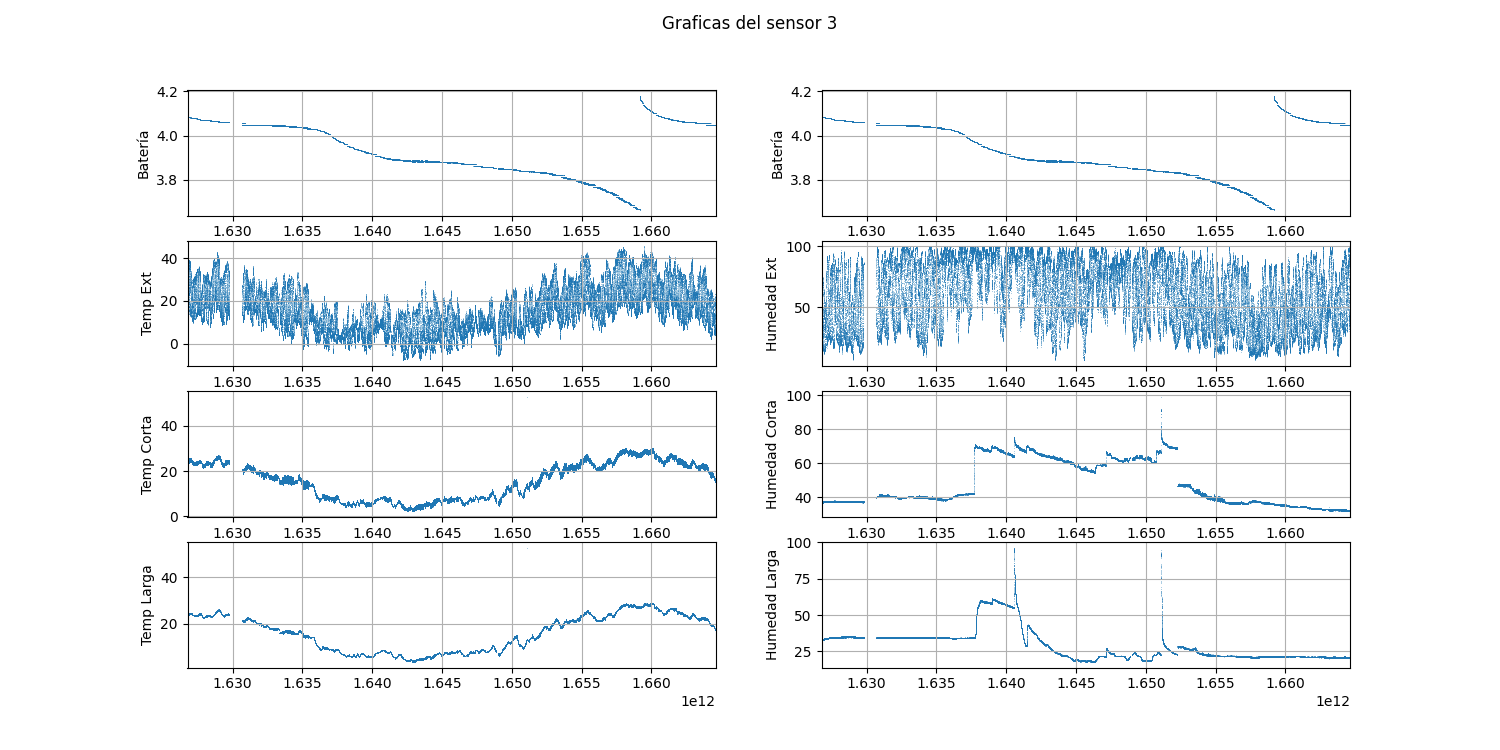
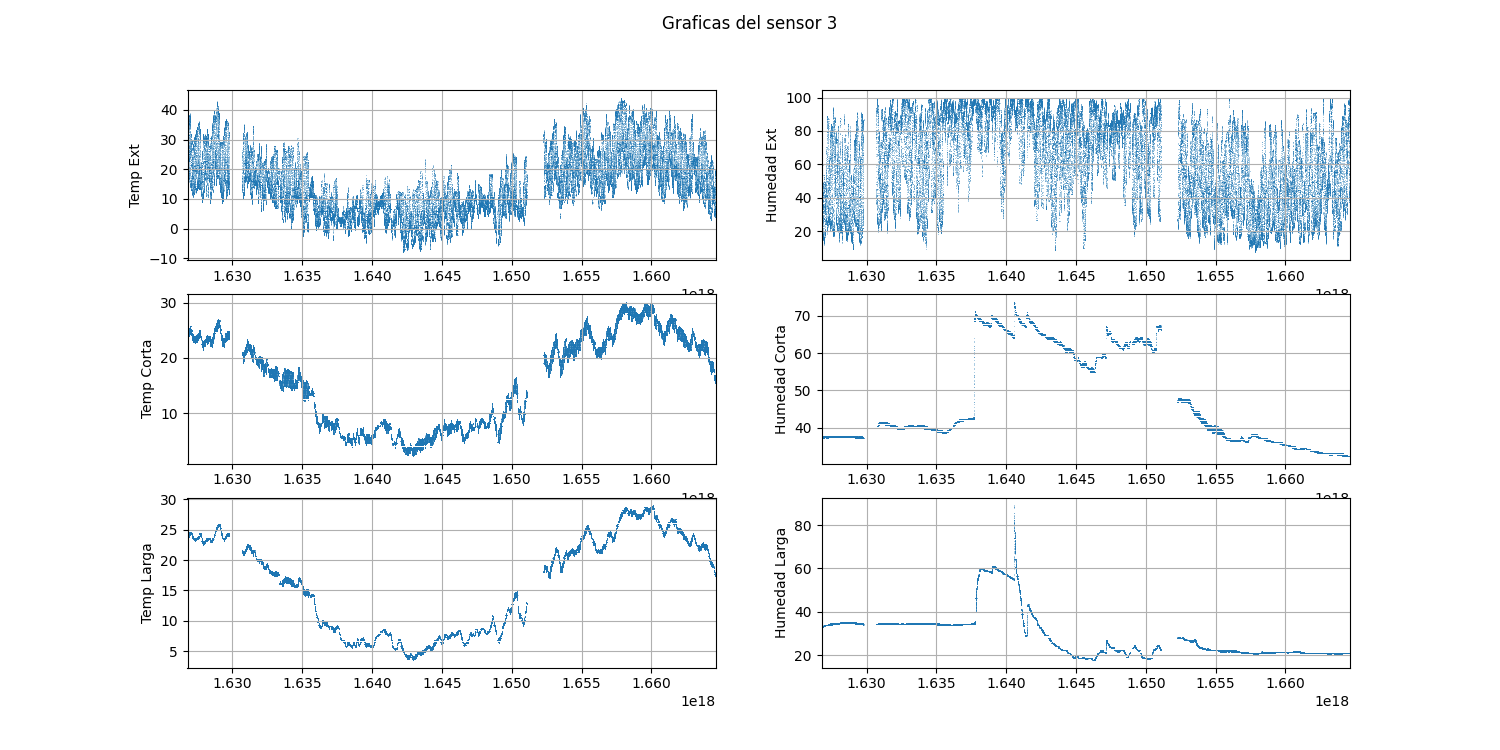
Cambios en las gráficas.
Cambio en las graficas de los datos. Se eliminan las figuras de la batería.
Se deja comentado el graficado de las humedades no calibradas para posteriores modificaciones.

diff --git a/graficas-datos.py b/graficas-datos.py
@@ -1,7 +1,7 @@
 import matplotlib.pyplot as plt
 import pandas as pd
 
-RAW_FILES_PATH = './data/raw_data/'
+RAW_FILES_PATH = './data/classified_data/'
 FILES = ["sensor1.csv", "sensor2.csv", "sensor3.csv", "sensor4.csv", "sensor5.csv", "sensor6.csv", "sensor7.csv", "sensor8.csv"]
 
 def main():
@@ -18,90 +18,89 @@ def sensor_graphic():
         ts_final = max(x)
         ts_inicial = min(x)
 
-
         plt.figure(num = "Graficas " + file, figsize=(15, 7.5))
         plt.suptitle("Graficas del sensor " + str(file_counter))
 
-        plt.subplot(4, 2, 1)
-        plt.scatter(x, dataset["bateria"], marker=".", linewidths=0.1, s=0.5)
-        plt.grid(True)
-        plt.xlim(ts_inicial, ts_final)
-        plt.ylabel("Batería")
+        # plt.subplot(4, 2, 1)
+        # plt.scatter(x, dataset["bateria"], marker=".", linewidths=0.1, s=0.5)
+        # plt.grid(True)
+        # plt.xlim(ts_inicial, ts_final)
+        # plt.ylabel("Batería")
         
-        plt.subplot(4, 2, 2)
-        plt.scatter(x, dataset["bateria"], marker=".", linewidths=0.1, s=0.5)
-        plt.grid(True)
-        plt.xlim(ts_inicial, ts_final)
-        plt.ylabel("Batería")
+        # plt.subplot(4, 2, 2)
+        # plt.scatter(x, dataset["bateria"], marker=".", linewidths=0.1, s=0.5)
+        # plt.grid(True)
+        # plt.xlim(ts_inicial, ts_final)
+        # plt.ylabel("Batería")
 
-        plt.subplot(4, 2, 3)
+        plt.subplot(3, 2, 1)
         plt.scatter(x, dataset["t_ext"], marker=".", linewidths=0.1, s=0.5)
         plt.grid(True)
         plt.xlim(ts_inicial, ts_final)
         plt.ylabel("Temp Ext")
 
-        plt.subplot(4, 2, 4)
+        plt.subplot(3, 2, 2)
         plt.scatter(x, dataset["h_ext"], marker=".", linewidths=0.1, s=0.5)
         plt.grid(True)
         plt.xlim(ts_inicial, ts_final)
         plt.ylabel("Humedad Ext")
 
-        plt.subplot(4, 2, 5)
+        plt.subplot(3, 2, 3)
         plt.scatter(x, dataset["t_C_cal"], marker=".", linewidths=0.1, s=0.5)
         plt.grid(True)
         plt.xlim(ts_inicial, ts_final)
         plt.ylabel("Temp Corta")
 
-        plt.subplot(4, 2, 6)
+        plt.subplot(3, 2, 4)
         plt.scatter(x, dataset["h_C_cal"], marker=".", linewidths=0.1, s=0.5)
         plt.grid(True)
         plt.xlim(ts_inicial, ts_final)
         plt.ylabel("Humedad Corta")
 
-        plt.subplot(4, 2, 7)
+        plt.subplot(3, 2, 5)
         plt.scatter(x, dataset["t_L_cal"], marker=".", linewidths=0.1, s=0.5)
         plt.grid(True)
         plt.xlim(ts_inicial, ts_final)
         plt.ylabel("Temp Larga")
 
-        plt.subplot(4, 2, 8)
+        plt.subplot(3, 2, 6)
         plt.scatter(x, dataset["h_L_cal"], marker=".", linewidths=0.1, s=0.5)
         plt.grid(True)
-        if file_counter == 1:
-            plt.ylim(bottom = 0, top = 50)
+        # if file_counter == 1:
+        #     plt.ylim(bottom = 0, top = 50)
         plt.xlim(ts_inicial, ts_final)
         plt.ylabel("Humedad Larga")
 
         plt.savefig(fname = "./img/graphics/sensor" + str(file_counter))
 
-        plt.figure(num = "Graficas de humedad no calibradas", figsize=(15, 7.5))
-        plt.suptitle("Graficas de humedad del sensor " + str(file_counter))
+        # plt.figure(num = "Graficas de humedad no calibradas", figsize=(15, 7.5))
+        # plt.suptitle("Graficas de humedad del sensor " + str(file_counter))
         
-        plt.subplot(3, 1, 1)
-        plt.plot(x, dataset["bateria"], '-')
-        plt.grid(True)
-        plt.xlim(ts_inicial, ts_final)
-        plt.ylabel("Batería")
+        # plt.subplot(3, 1, 1)
+        # plt.plot(x, dataset["bateria"], '-')
+        # plt.grid(True)
+        # plt.xlim(ts_inicial, ts_final)
+        # plt.ylabel("Batería")
 
-        plt.subplot(3, 1, 2)
-        dataset["h_C"].loc[dataset["h_C"] > 20000] = None
-        min_h, max_h = dataset["h_C"].min(), dataset["h_C"].max()
-        plt.plot(x, dataset["h_C"], 'g-')
-        plt.grid(True)
-        plt.xlim(ts_inicial, ts_final)
-        plt.ylim(min_h, max_h)
-        plt.ylabel("Humedad C. no calibrada")
+        # plt.subplot(3, 1, 2)
+        # dataset["h_C"].loc[dataset["h_C"] > 20000] = None
+        # min_h, max_h = dataset["h_C"].min(), dataset["h_C"].max()
+        # plt.plot(x, dataset["h_C"], 'g-')
+        # plt.grid(True)
+        # plt.xlim(ts_inicial, ts_final)
+        # plt.ylim(min_h, max_h)
+        # plt.ylabel("Humedad C. no calibrada")
         
-        plt.subplot(3, 1, 3)
-        dataset["h_L"].loc[dataset["h_L"] > 20000] = None
-        min_h, max_h = dataset["h_L"].min(), dataset["h_L"].max()
-        plt.plot(x, dataset["h_L"], 'r-')
-        plt.grid(True)
-        plt.xlim(ts_inicial, ts_final)
-        plt.ylim(min_h, max_h)
-        plt.ylabel("Humedad L. no calibrada")
+        # plt.subplot(3, 1, 3)
+        # dataset["h_L"].loc[dataset["h_L"] > 20000] = None
+        # min_h, max_h = dataset["h_L"].min(), dataset["h_L"].max()
+        # plt.plot(x, dataset["h_L"], 'r-')
+        # plt.grid(True)
+        # plt.xlim(ts_inicial, ts_final)
+        # plt.ylim(min_h, max_h)
+        # plt.ylabel("Humedad L. no calibrada")
 
-        plt.savefig(fname = "./img/graphics/humedadSensor" + str(file_counter))
+        # plt.savefig(fname = "./img/graphics/humedadSensor" + str(file_counter))
 
         file_counter += 1
 
